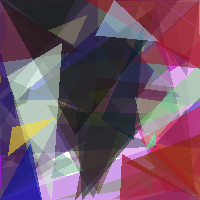
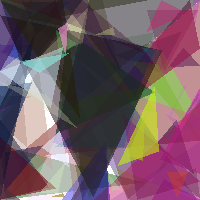
changed the way evolve works a bit, not a bad one, but not quit what i need still around 85

diff --git a/variants/evoart_tune_c_before_variant14_multistep_mutation.py b/variants/evoart_tune_c_before_variant14_multistep_mutation.py
@@ -189,20 +189,6 @@ def mutate(solution, rate=1.0):
     return mutated
 
 
-def mutate_repeated(solution):
-    passes = 1
-    roll = random.random()
-    if roll >= 0.9:
-        passes = 3
-    elif roll >= 0.6:
-        passes = 2
-
-    mutated = solution
-    for _ in range(passes):
-        mutated = mutate(mutated)
-    return mutated
-
-
 def tournament_pick(population, tournament_size=3):
     competitors = random.sample(population, min(tournament_size, len(population)))
     return max(competitors, key=lambda individual: individual.fitness)
@@ -255,7 +241,7 @@ def evolve(population, args):
 
     for _ in range(offspring_count):
         parent = random.choice(elites)
-        offspring = mutate_repeated(copy_solution(parent.chromosome))
+        offspring = mutate(copy_solution(parent.chromosome))
         population.individuals.append(Individual(offspring))
 
     population.generation += 1
